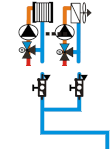
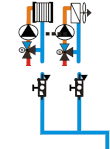
upgrade Aquastat différentiel ON si T5>T15

Changed region(s): [[0.3818, 0.698, 0.7636, 0.8859]]

diff --git a/htdocs/schematics/public/js/formulaire/gestionErreur.js b/htdocs/schematics/public/js/formulaire/gestionErreur.js
@@ -732,7 +732,7 @@ function actionBECS(){
  * fonction du select divers sert à interdire ou autorisé l'aquastat
  */
 function actionDivers(){
-    manageOption("Aquastat différentiel ON si T15 > T5");
+    manageOption("Aquastat différentiel ON si T5>T15 ou Rehaussement des retours sur BTC");
 }
 
 /**
@@ -741,7 +741,7 @@ function actionDivers(){
  */
 function actionEchangeurDansBt(){
     manageOption("charge BTC si excédent APP1 sur T16 & T6 > T5|charge BTC si excédent APP1 sur T16 & T6 < T5");
-    manageOption("Aquastat différentiel ON si T15 > T5");
+    manageOption("Aquastat différentiel ON si T5>T15 ou Rehaussement des retours sur BTC");
     manageOption("recharge nappes goethermiques sur T15 sur serpentin BTC");
     manageOption("recharge nappes goethermiques sur T15 sur échangeur BTC");
 }
@@ -752,7 +752,7 @@ function actionEchangeurDansBt(){
 function manageOption(key){
     //variable qui contient les options et leurs conditions d'activation et l'id de l'envoyeur des interdictions
     const condition_for_enable = {
-        "Aquastat différentiel ON si T15 > T5":{
+        "Aquastat différentiel ON si T5>T15 ou Rehaussement des retours sur BTC":{
             id:"k_aquast",
             cond:($("#EchangeurDansBT").is(':checked') && /deshu|pompe/.test(S.divers.value))
         },

diff --git a/htdocs/schematics/public/js/devis/model/default_articles_ref.js b/htdocs/schematics/public/js/devis/model/default_articles_ref.js
@@ -276,6 +276,16 @@ const BAL_MAPPING = [
         reason: "Il y a 3 ballon tampon sans échangeur."
     },
     {
+        when: {ballonTampon: /2/i},
+        refs:{"SSC divers": ["KITSSC157"]},
+        reason: "Il y a 2 ballon tampons."
+    },
+    {
+        when: {ballonTampon: /3/i},
+        refs:{"SSC divers": ["KITSSC157", "KITSSC157"]},
+        reason: "Il y a 3 ballon tampons."
+    },
+    {
         when: {resistanceElectriqueBECS: /on/i},
         refs: {"resistance": ["BAL0158"]},
         reason: "Il y a une résistance dans le ballon ECS ou tampon."
@@ -342,8 +352,18 @@ const CAPTEURS_MAPPING = [
 /**@type {MappingRule[]} */
 const SERV_PORT_MAPPING = [
     {
-        refs: {"assistance ind": ["MISE001"], "transport": ["TRANS001"]},
+        refs: {"assistance ind": ["MISE001"]},
         reason: "Articles ajoutées par défaut."
+    },
+    {
+        when: {typeInstallation: /1/i},
+        refs: {"transport": ["TRANS001"]},
+        reason: "Le module choisit est un SC1 ou SC1Z ou hydraubox 1."
+    },
+    {
+        when: {typeInstallation: /2/i},
+        refs: {"transport": ["TRANS002"]},
+        reason: "Le module choisit appartient à la gamme des SC2"
     }
 ];
 

diff --git a/htdocs/schematics/models/schema/SchemaHydrau.php b/htdocs/schematics/models/schema/SchemaHydrau.php
@@ -291,11 +291,11 @@ class SchemaHydrau extends Schema{
                         $count[0]++;
                         break;
                     case "charge BTC si excédent APP1 sur T16 & T6 x T5":
-                    case "Aquastat différentiel ON si T15 x T5":
+                    case "Aquastat différentiel ON si T5xT15 ou Rehaussement des retours sur BTC":
                         $path .= "optionBT/"; // On pointe vers le fichier option dans BT
                         $attribut = $DATA_OPTION['optionBT'];
                         // On ajoute le bon raccordement en fonction du ballon tampon
-                        if ($nameIMG == "Aquastat différentiel ON si T15 x T5") {
+                        if ($nameIMG == "Aquastat différentiel ON si T5xT15 ou Rehaussement des retours sur BTC") {
                             // Dans le cas d'un aquastat différentiel, on le met à gauche ou à droite en fonction de la pompe
                             if ($this->_formulaire['raccordementHydraulique'] == "En direct") {
                                 $raccord_pos = [$attribut['pos'][0] + 291, $attribut['pos'][1] + 33];

diff --git a/htdocs/schematics/models/schema/SchemaExe.php b/htdocs/schematics/models/schema/SchemaExe.php
@@ -298,12 +298,12 @@ class SchemaExe extends Module{
             if (isset($list_coord[$value])) {
                 switch ($value) {
                     case "charge BTC si excédent APP1 sur T16 & T6 x T5":
-                    case "Aquastat différentiel ON si T15 x T5":
+                    case "Aquastat différentiel ON si T5xT15 ou Rehaussement des retours sur BTC":
                         $fullPath = $PATH . "optionBT/";
                         $this->addImage($fullPath . "raccordement " . $this->_formulaire['ballonTampon'], $list_coord[$value]["coordImg"]);
                         $fullPath .= $value;
                         // Dans le cas d'un aquastat, il faut le positionner soit à gauche soit à droite
-                        if ($value == "Aquastat différentiel ON si T15 x T5") {
+                        if ($value == "Aquastat différentiel ON si T5xT15 ou Rehaussement des retours sur BTC") {
                             if (preg_match('/gauche/', $this->_formulaire['divers'])) $fullPath .= " gauche";
                             else $fullPath .= " droite";
                         }
